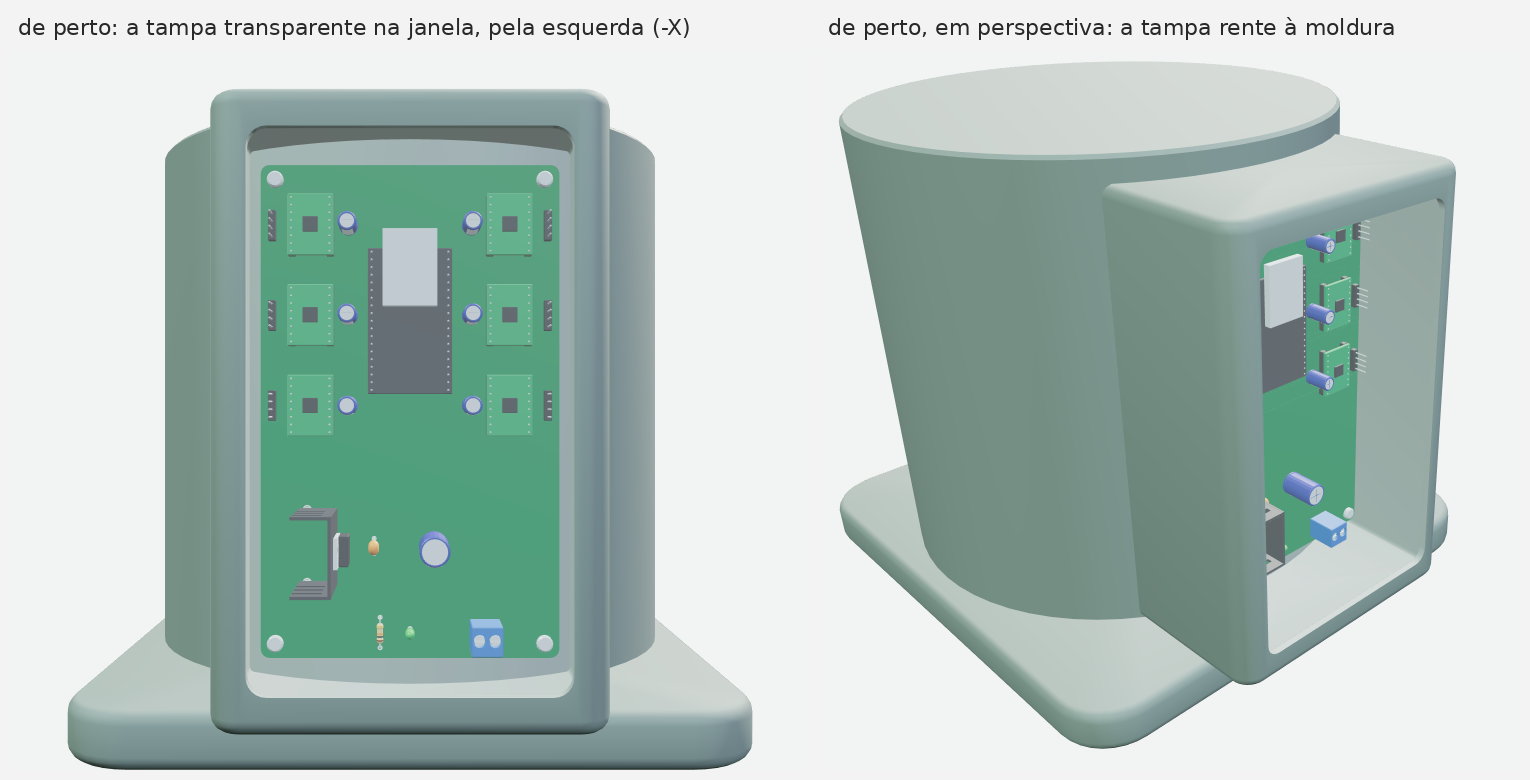
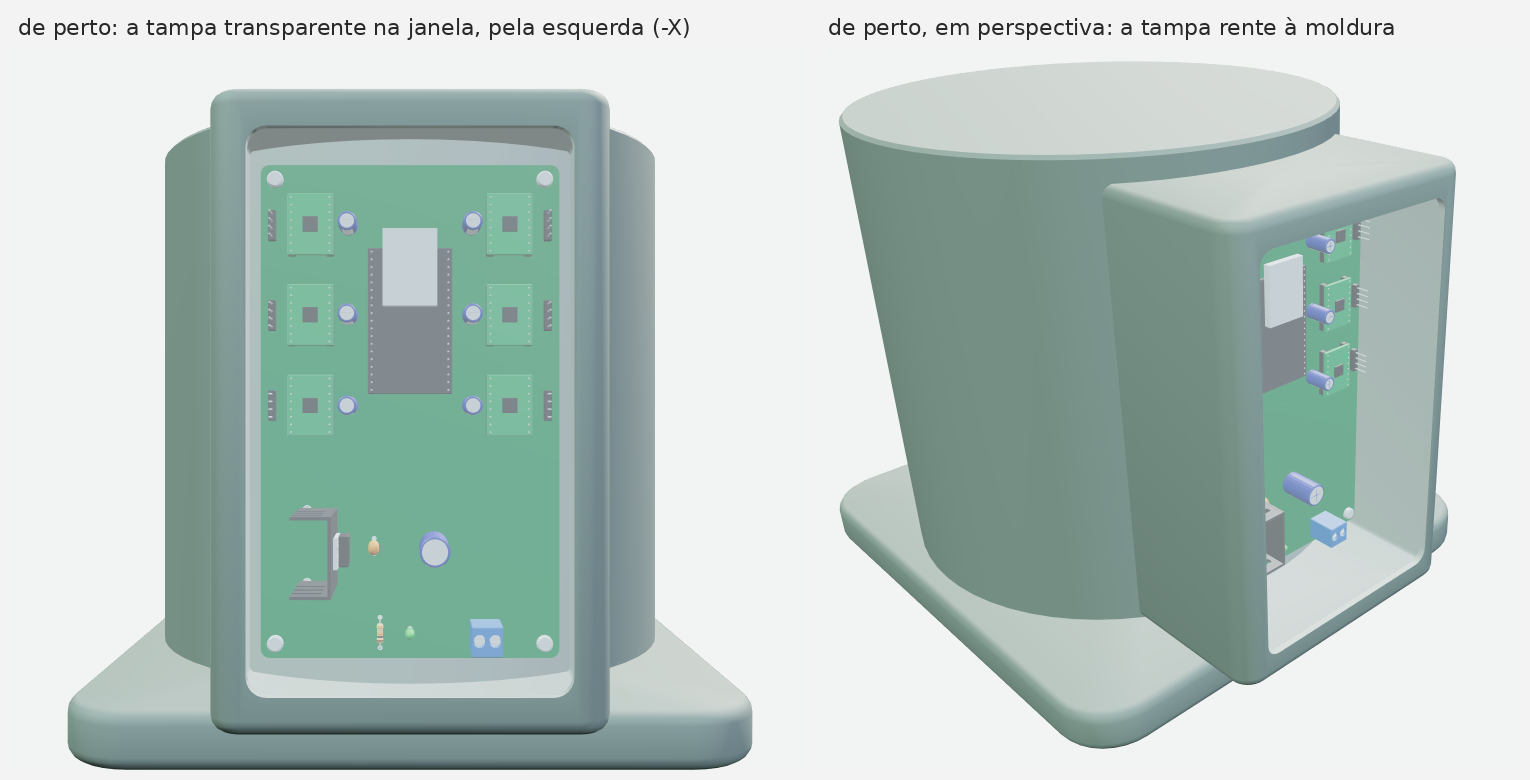
Base do braço: tampa da caixa um pouco mais leitosa
A pessoa pediu em 2026-11-17 a tampa transparente só um pouco mais
leitosa, para se ver que há tampa. O vidroIncolor da receita passa de
opacidade 0,2 a 0,3 e de aspereza 0,03 a 0,25, sem paleta nova; a malha
não muda. A imagem fatia-4-tampa-transparente.png foi refeita.

Claude-Session: https://claude.ai/code/session_015i1y8CrgTgEfwGG2HEX8g8

Changed region(s): [[0.1536, 0.1538, 0.3686, 0.8615], [0.7987, 0.2769, 0.8908, 0.7385]]

diff --git a/procedural/pecas/braco-robotico/partes/base/receita.js b/procedural/pecas/braco-robotico/partes/base/receita.js
@@ -298,9 +298,10 @@ const receita = {
   /* As cores dos componentes são as das pranchas da família, escolhidas por peça, sem paleta nova. */
   MATERIAIS: {
     ...Object.fromEntries(placaPadrao.materiais.map((nome) => [nome, CORES_DOS_COMPONENTES[nome]])),
-    /* a tampa da janela: o vidro claro e liso do farol do furgão (`lenteDoFarol` em procedural/pecas/furgao-realista/receita.js), que
-       deixa ver o que há atrás dele */
-    vidroIncolor: { tipo: 'liso', cor: '#f4f8fa', mistura: 'transparente', opacidade: 0.2, aspereza: 0.03, metalicidade: 0 },
+    /* a tampa da janela: o vidro claro do farol do furgão (`lenteDoFarol` em procedural/pecas/furgao-realista/receita.js), um pouco
+       mais leitoso, a pedido da pessoa em 2026-11-17, só o bastante para se ver que há tampa (opacidade de 0,2 a 0,3 e aspereza de
+       0,03 a 0,25) */
+    vidroIncolor: { tipo: 'liso', cor: '#f4f8fa', mistura: 'transparente', opacidade: 0.3, aspereza: 0.25, metalicidade: 0 },
   },
   PLANO: {
     objeto: 'base do braço robótico industrial, presa no chão, com uma caixa colada no lado esquerdo que guarda a placa de controle',
